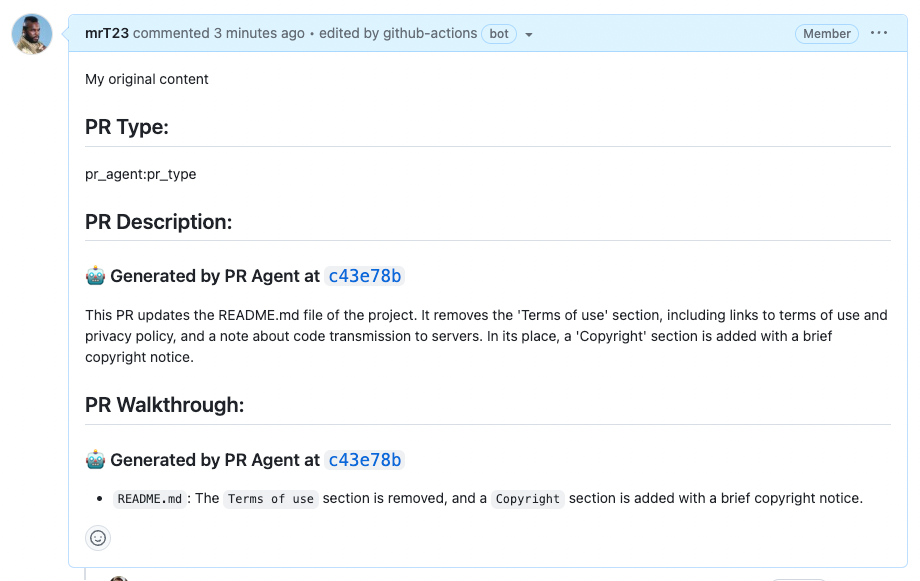
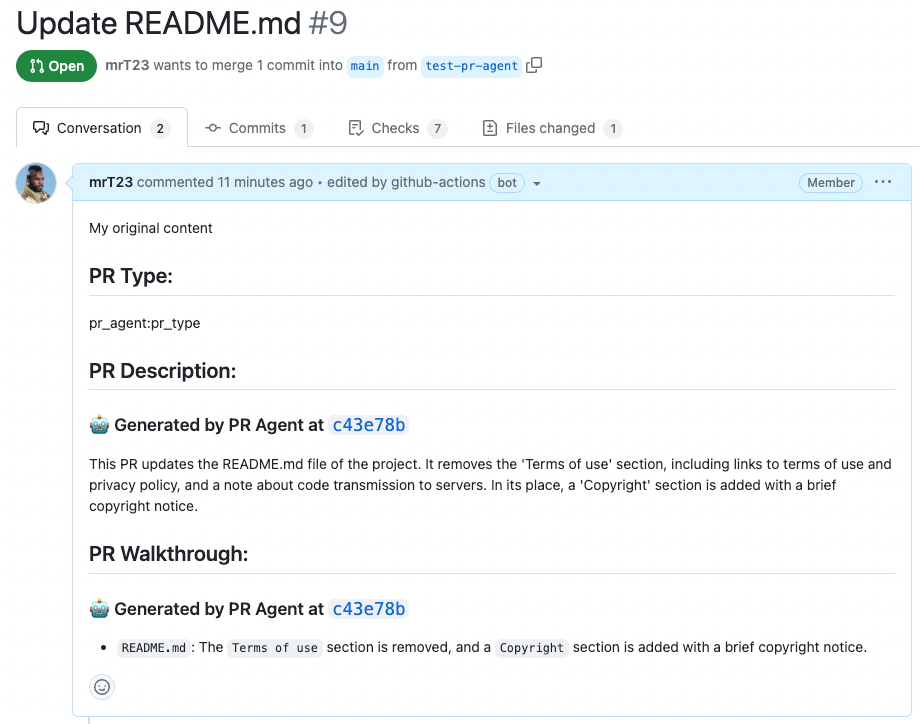
describe

diff --git a/docs/DESCRIBE.md b/docs/DESCRIBE.md
@@ -27,11 +27,12 @@ Under the section 'pr_description', the [configuration file](./../pr_agent/setti
 
 - `extra_instructions`: Optional extra instructions to the tool. For example: "focus on the changes in the file X. Ignore change in ...".
 
-#### Markers template
+### Markers template
 
 markers enable to easily integrate user's content and auto-generated content, with a template-like mechanism.
 
 - `use_description_markers`: if set to true, the tool will use markers template. It replaces every marker of the form `pr_agent:marker_name` with the relevant content. Default is false.
+- `include_generated_by_header`: if set to true, the tool will add a dedicated header: 'Generated by PR Agent at ...' to any automatic content. Default is true.
 
 For example, if the PR original description was:
 ```
@@ -48,9 +49,7 @@ pr_agent:walkthrough
 ```
 The marker `pr_agent:pr_type` will be replaced with the PR type, `pr_agent:summary` will be replaced with the PR summary, and `pr_agent:walkthrough` will be replaced with the PR walkthrough.
 
-- `include_generated_by_header`: if set to true, the tool will add a dedicated header: 'Generated by PR Agent at ...' to any automatic content. Default is true.
-
-##### Example usage:
+##### Example:
 ```
         env:
           pr_description.use_description_markers: 'true'